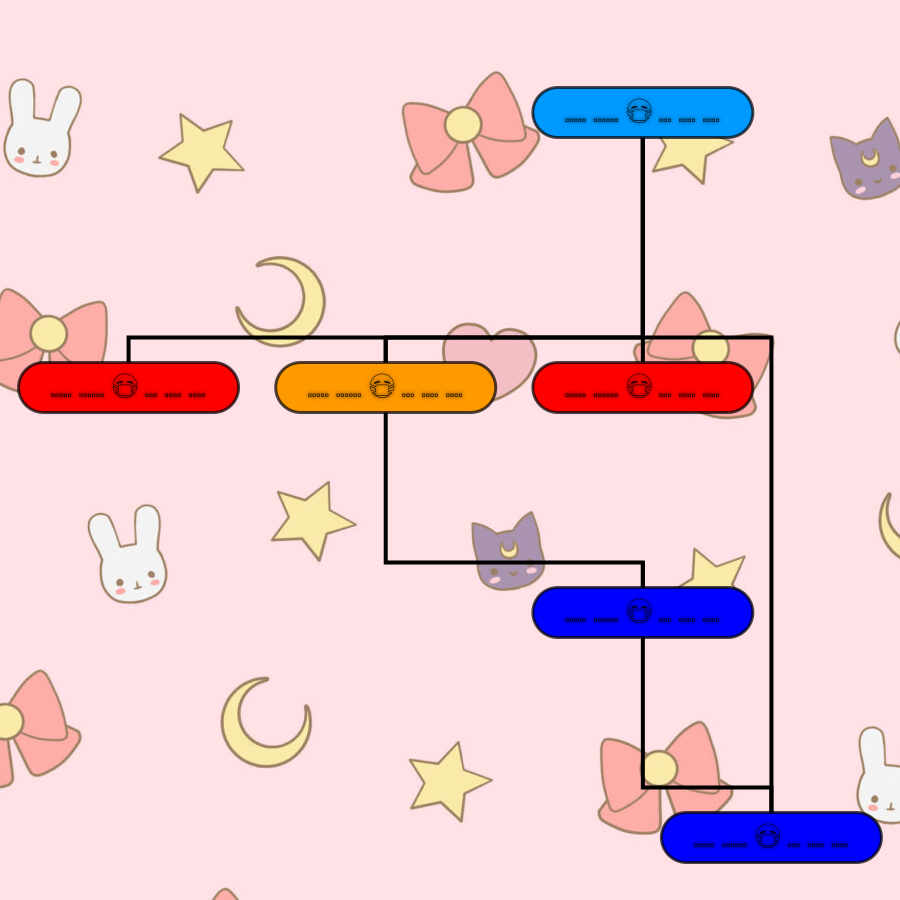
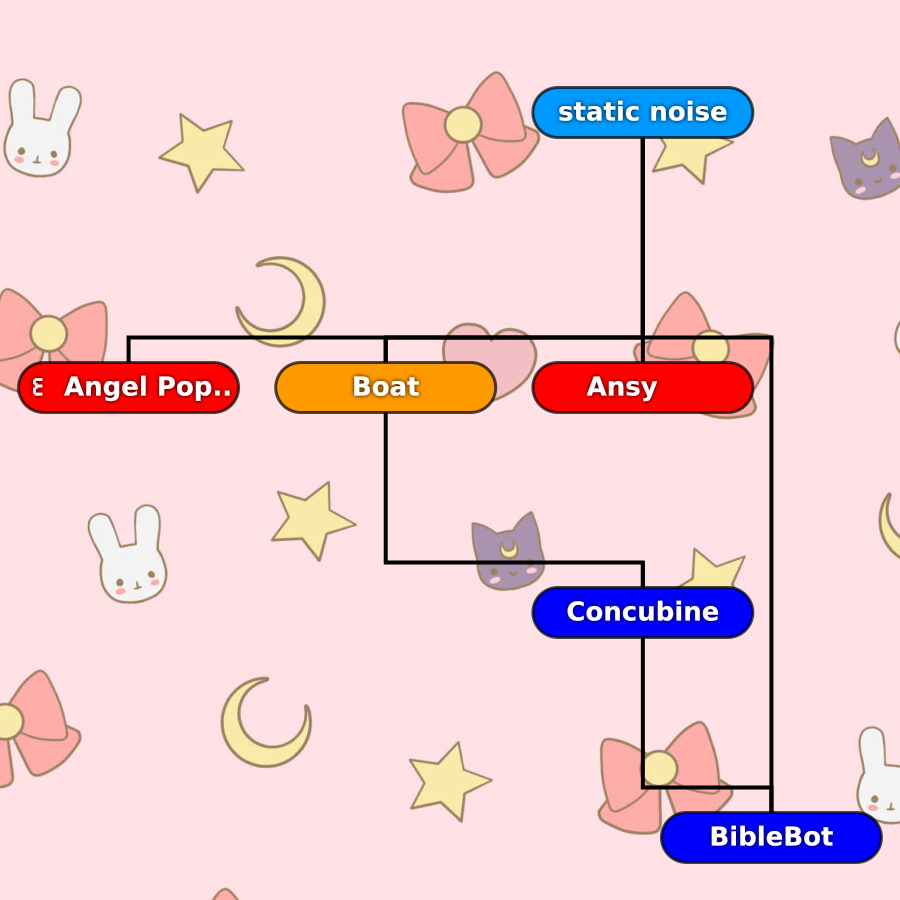
fofof

diff --git a/commands/tree.ts b/commands/tree.ts
@@ -27,38 +27,40 @@ const Tree = {
 
             const data: { id: string, name: string, parentIds: string[], color: string }[] = [];
 
-            for (const row of ancestry.rows) {
-                const child = row.child_id ? String(row.child_id) : null;
-                const parent = (row.parent_id) ? String(row.parent_id) : null;
+            // two because get_ancestory() and get_descendant() return always at least 1 row each
+            if (ancestry.rowCount > 2) {
+                for (const row of ancestry.rows) {
+                    const child = row.child_id ? String(row.child_id) : null;
+                    const parent = (row.parent_id) ? String(row.parent_id) : null;
 
-                const childFound = data.find(e => e.id === child);
-                if (childFound !== undefined && parent != null) {
-                    childFound.parentIds.push(parent);
-                } else {
-                    const parents = [];
-                    if (parent) {
-                        parents.push(parent);
-                    }
-
-                    if (child && (await pgClient.query(PersonTable.get(child))).rowCount > 0) {
-                        data.push({
-                            id: child,
-                            name: (await interaction.client.users.fetch(child)).username,
-                            parentIds: parents,
-                            color: String((await pgClient.query(PersonTable.get(child))).rows[0].color)
-                        });
+                    const childFound = data.find(e => e.id === child);
+                    if (childFound !== undefined && parent) {
+                        childFound.parentIds.push(parent);
                     } else {
-                        interaction.reply({ ephemeral: true, content: `You don't have any children or parents.`});
+                        const parents = [];
+                        if (parent) {
+                            parents.push(parent);
+                        }
+
+                        if (child) {
+                            data.push({
+                                id: child,
+                                name: (await interaction.client.users.fetch(child)).username,
+                                parentIds: parents,
+                                color: String((await pgClient.query(PersonTable.get(child))).rows[0].color)
+                            });
+                        }
                     }
                 }
+
+                const dag = create(data);
+                const newRender = new DagRenderer(dag, 900, 900, 220, 50, 25);
+                await newRender.createImage();
+
+                interaction.reply({ files: ['/home/boom/Concubine/images/dag.png'] });
+            } else {
+                interaction.reply({ ephemeral: true, content: `\u26A0 You don't have any children or parents.` });
             }
-
-            console.log(data);
-
-            /*const dag = create(data);
-            const newRender = new DagRenderer(dag, 900, 900, 220, 50, 25);
-            await newRender.createImage();*/
-            interaction.reply({ files: ['/home/boom/Concubine/images/dag.png'] });
         }
     }
 }

diff --git a/javascripts/dag-renderer.js b/javascripts/dag-renderer.js
@@ -3,6 +3,7 @@ import { CreateSvg } from './create-svg.js';
 import * as d3 from 'd3';
 import sharp from 'sharp';
 import fs from 'fs';
+import { truncate } from './truncate.js';
 class DagRenderer {
     constructor(dag, xMultiplier, yMultiplier, nodeWidth, nodeHeight, nodeRadius) {
         const layout = sugiyama().size([xMultiplier, yMultiplier]);
@@ -92,12 +93,12 @@ class DagRenderer {
         // Add text to nodes
         nodes
             .append('text')
-            .text((d) => 'hello world! 😷 and good bye!')
+            .text((d) => truncate(d.data.name, 12))
             .attr('font-weight', 'bolder')
             .attr('font-family', 'Arial, Helvetica, sans-serif')
             .attr('text-anchor', 'middle')
             .attr('dy', '8px')
-            //.attr('fill', 'white')
+            .attr('fill', 'white')
             .attr('font-size', '26px');
     }
 }

diff --git a/dag-renderer.ts b/dag-renderer.ts
@@ -117,12 +117,12 @@ class DagRenderer {
         // Add text to nodes
         nodes
             .append('text')
-            .text((d) => 'hello world! 😷 and good bye!')
+            .text((d) => truncate(d.data.name, 12))
             .attr('font-weight', 'bolder')
             .attr('font-family', 'Arial, Helvetica, sans-serif')
             .attr('text-anchor', 'middle')
             .attr('dy', '8px')
-            //.attr('fill', 'white')
+            .attr('fill', 'white')
             .attr('font-size', '26px');
     }
 }

diff --git a/javascripts/create-svg.js b/javascripts/create-svg.js
@@ -13,7 +13,8 @@ class CreateSvg {
             .attr('height', height);
         this.svg
             .append('style')
-            .text(`g text { filter: drop-shadow(0 0 2px #000000); }`);
+            .text(`g text { filter: drop-shadow(0 0 2px #000000); }
+                .nodes text { font-family: Twitter Color Emoji; src: '/usr/share/fonts/truetype/emoji/TwitterColorEmoji-SVGinOT.ttf' }`);
     }
     getWindow() {
         return this.window;

diff --git a/create-svg.ts b/create-svg.ts
@@ -20,8 +20,9 @@ class CreateSvg {
         this.svg
             .append('style')
             .text(
-                `g text { filter: drop-shadow(0 0 2px #000000); }`
-                );
+                `g text { filter: drop-shadow(0 0 2px #000000); }
+                .nodes text { font-family: Twitter Color Emoji; src: '/usr/share/fonts/truetype/emoji/TwitterColorEmoji-SVGinOT.ttf' }`
+            );
     }
 
     public getWindow() {
